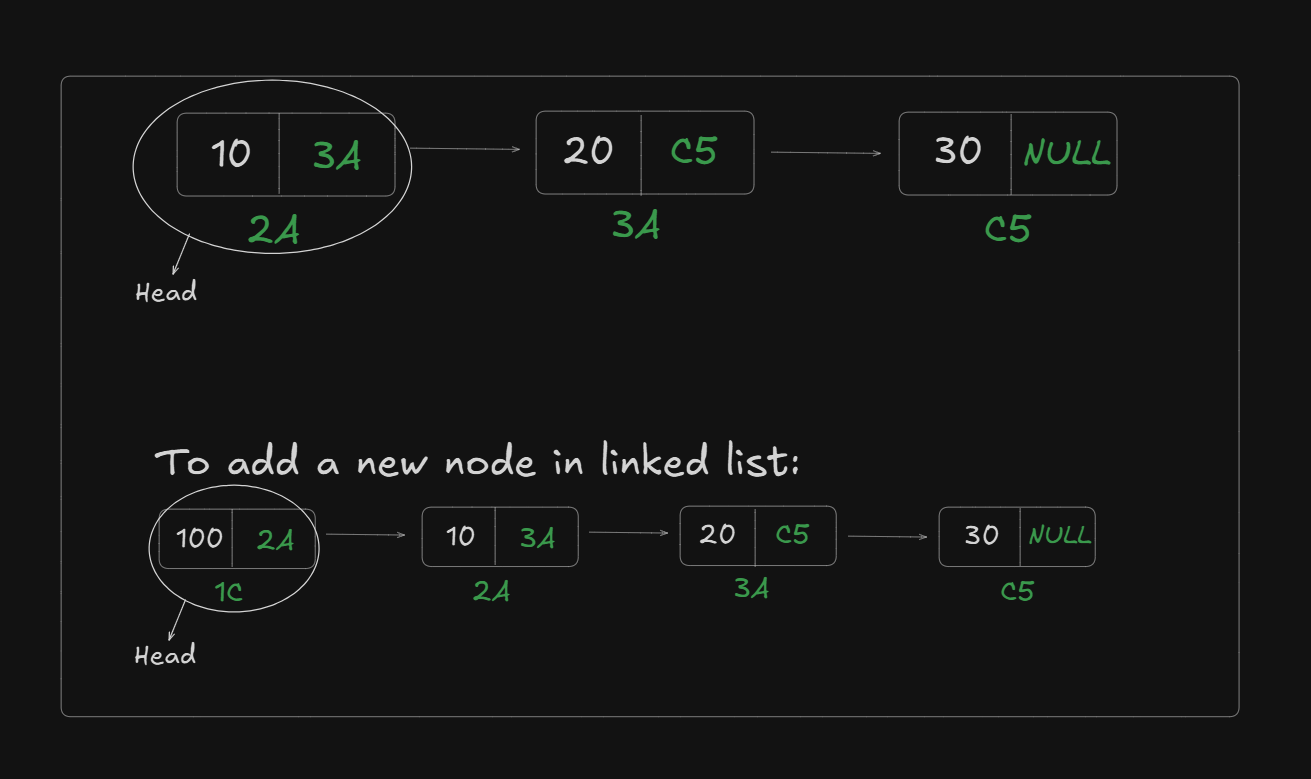
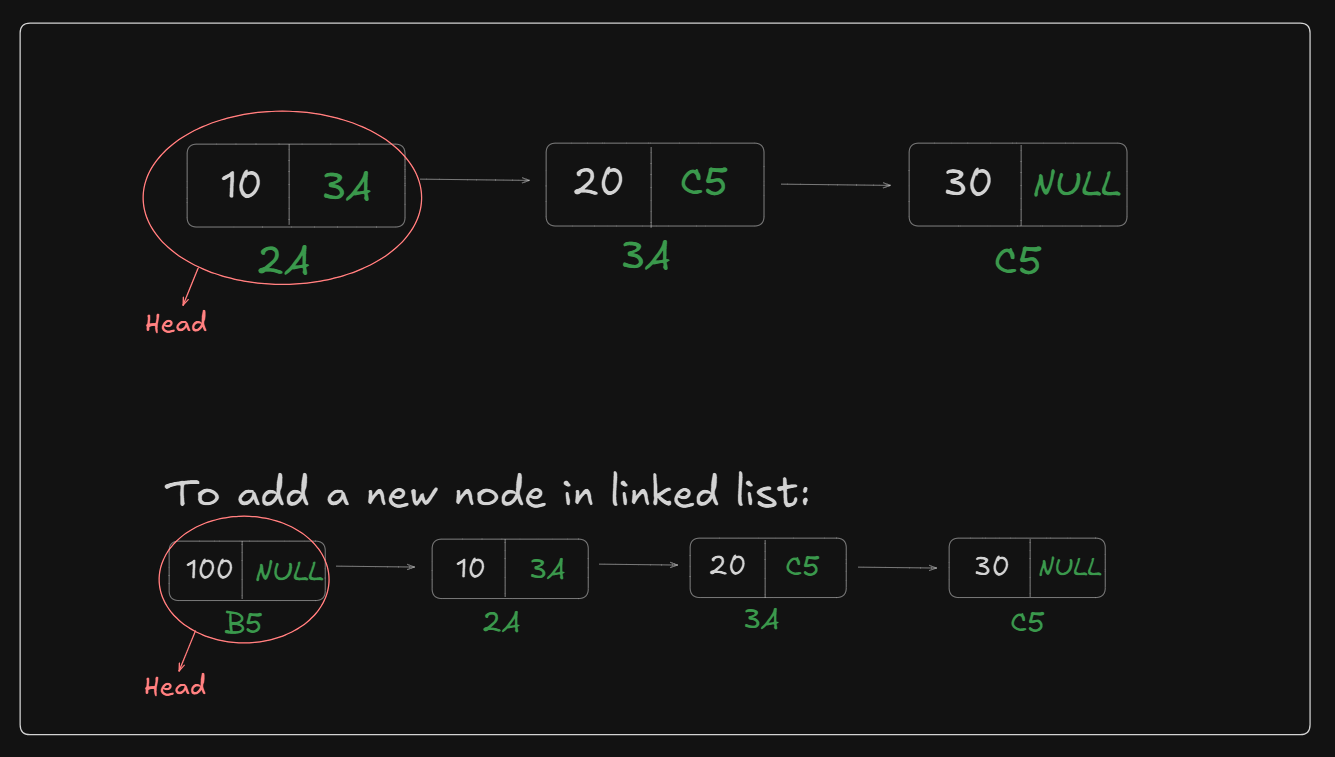
To add notes for module 06

diff --git a/03. Basic Data Structures/Week 02-Linked List/Module 06-Singly Linked List Operations/head_insert.cpp b/03. Basic Data Structures/Week 02-Linked List/Module 06-Singly Linked List Operations/head_insert.cpp
@@ -12,8 +12,37 @@ class Node {
     }
 };
 
+// Insert a new node with function
+void insert_at_head(Node* &head, int value) {
+    Node* newNode = new Node(value); // Create a new node
+    newNode->next = head; // Going on next node
+    head = newNode; // Assign to head
+}
+
+// For printing linked lists
+void print_linked_list(Node* head) {
+    Node* tmp = head;
+    while(tmp != NULL) {
+        cout << tmp->value << endl;
+        tmp = tmp->next;
+    }
+}
+
 int main() {
-    int n;
+    Node* head = new Node(10);
+    Node* a = new Node(20);
+    Node* b = new Node(30);
+
+    head->next = a;
+    a->next = b;
+
+    // Called function
+    insert_at_head(head, 100); // 3
+    insert_at_head(head, 200); // 2
+    insert_at_head(head, 300); // Head 1
+
+    // Called function
+    print_linked_list(head);
 
     return 0;
 }

diff --git a/03. Basic Data Structures/Week 02-Linked List/Module 06-Singly Linked List Operations/README.md b/03. Basic Data Structures/Week 02-Linked List/Module 06-Singly Linked List Operations/README.md
@@ -47,3 +47,6 @@
 - Program: `head_insert.cpp`
 - Draw the logic:
     - <img src="./images/draw.png" width="500">
+- After make a function logic with draw:
+    - <img src="./images/draw2.png" width="500">
+    - <img src="./images/draw3.png" width="500">
